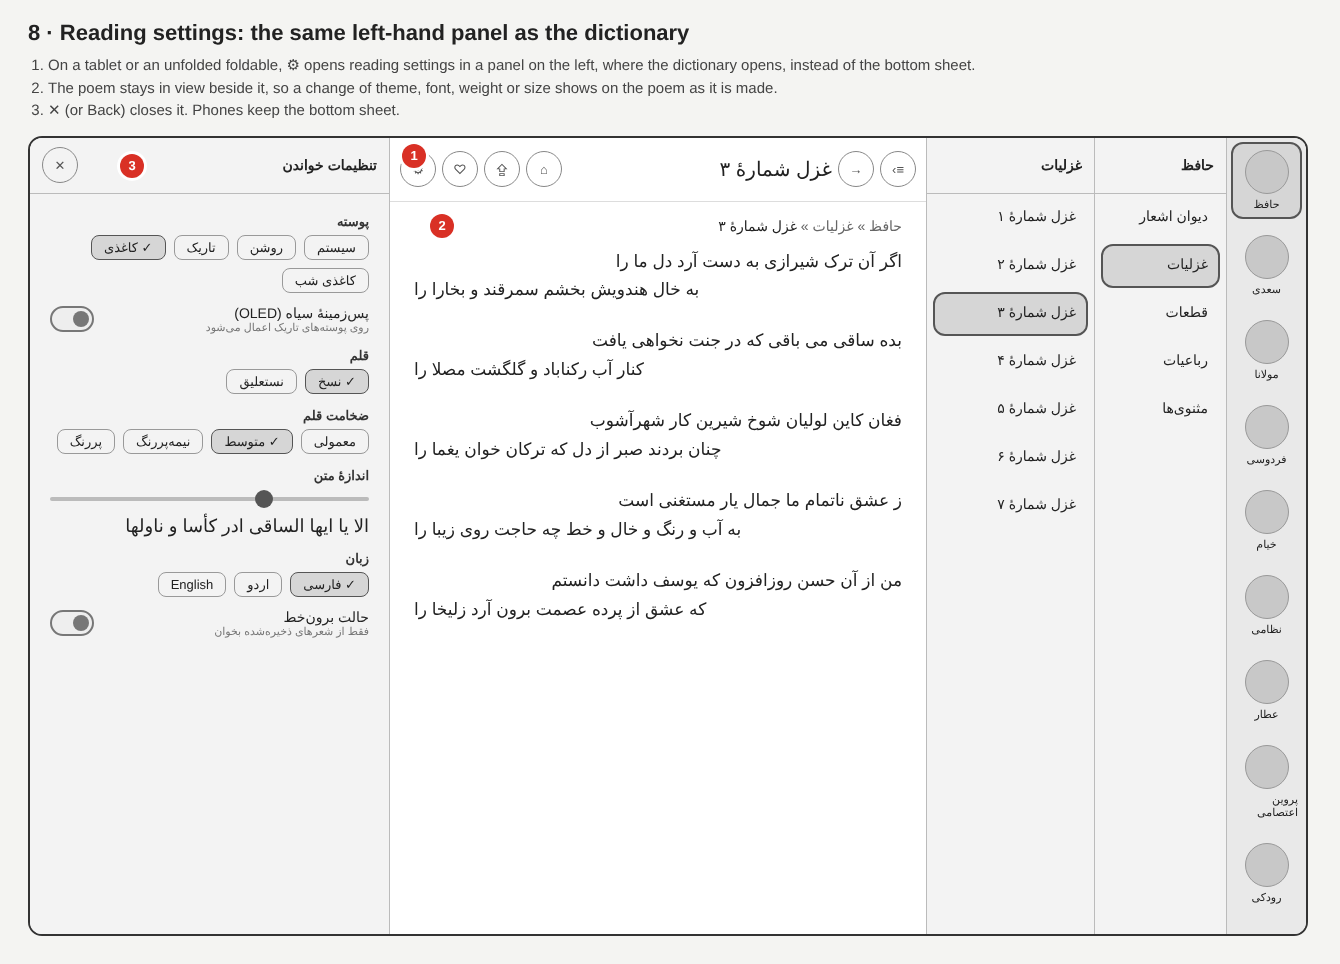
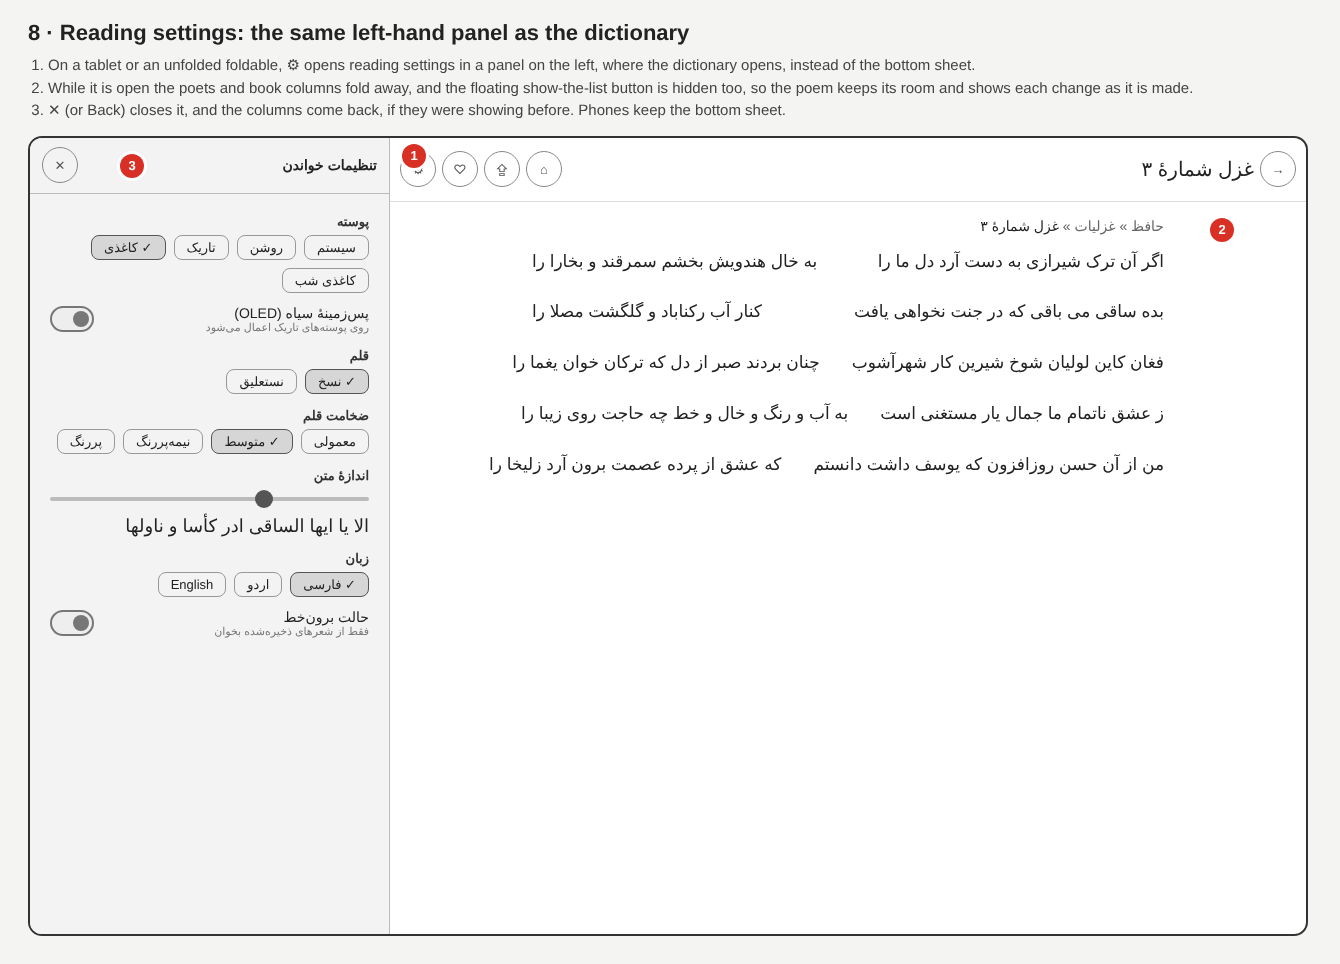
Fold the columns away while reading settings are open
On a large screen the settings panel opens on the left while the poets
and book columns sit on the right, which left the page squeezed between
them. The columns now step aside while the panel is open and come back
when it closes, but only if they were showing: this is a transient flag
(LocalSidePanelOpen), never the saved reader-view choice. The floating
show-the-list button stays hidden while the panel is open too.

Updates wireframe 8 and the ColumnBrowser notes.

Claude-Session: https://claude.ai/code/session_01RhmDdrN5hgWrgRcFLAMsV6

diff --git a/app/src/main/java/com/ganjoor/android/ui/ColumnBrowser.kt b/app/src/main/java/com/ganjoor/android/ui/ColumnBrowser.kt
@@ -61,6 +61,7 @@ import androidx.compose.material3.VerticalDivider
 import androidx.compose.runtime.Composable
 import androidx.compose.runtime.LaunchedEffect
 import androidx.compose.runtime.Stable
+import androidx.compose.runtime.compositionLocalOf
 import androidx.compose.runtime.getValue
 import androidx.compose.runtime.key
 import androidx.compose.runtime.mutableIntStateOf
@@ -157,6 +158,12 @@ private val CatEntry.url
     }
 
 /**
+ * True while a side panel (the reading settings) is open beside the page on a large screen.
+ * The columns step aside for it, so the page keeps its room, and come back when it closes.
+ */
+val LocalSidePanelOpen = compositionLocalOf { false }
+
+/**
  * The columns beside [content]. [expanded] (840dp and up) shows up to three list columns;
  * narrower, only the newest one, with a way back up in its header.
  *
@@ -174,7 +181,11 @@ fun ColumnBrowser(
     content: @Composable (toggle: @Composable () -> Unit) -> Unit,
 ) {
     val settings = LocalSettings.current
-    val hidden = settings.value.columnsHidden
+    // Hidden by the reader (reader view, remembered) or only while the settings panel is open.
+    // The second never touches the saved choice, so closing the panel puts back exactly what
+    // was there: the columns if they were showing, reader view if it was on.
+    val makingRoom = LocalSidePanelOpen.current
+    val hidden = settings.value.columnsHidden || makingRoom
     val columns = remember(url, isPoem) { columnUrls(url, isPoem) }
     // What is selected in each column: the next step of the path, down to the open poem.
     val path = if (isPoem) columns + url else columns
@@ -219,13 +230,14 @@ fun ColumnBrowser(
         Box(Modifier.weight(1f).fillMaxHeight()) {
             content {
                 // Hiding is in the top bar; bringing them back is the floating button below,
-                // which is there whenever they are hidden.
+                // which is there whenever the reader has hidden them.
                 if (!hidden) ColumnsToggle { settings.update { it.copy(columnsHidden = true) } }
             }
             // Reader view: the page has the whole screen, and one button, at the edge the
             // columns went to, brings them back as they were.
+            // Not while the settings panel is open: the columns would stay away for it anyway.
             ShowColumnsButton(
-                visible = hidden,
+                visible = hidden && !makingRoom,
                 onShow = { settings.update { it.copy(columnsHidden = false) } },
                 modifier = Modifier
                     .align(Alignment.BottomStart)

diff --git a/app/src/main/java/com/ganjoor/android/ui/GanjoorApp.kt b/app/src/main/java/com/ganjoor/android/ui/GanjoorApp.kt
@@ -112,7 +112,10 @@ fun GanjoorApp() {
         // On a large screen reading settings open in a panel on the left, where the dictionary
         // opens, so the page stays in view and shows each change as it is made.
         Row(Modifier.fillMaxSize()) {
+        // The columns fold away while the settings panel is open, so the page doesn't end up
+        // squeezed between them and the panel.
         Box(Modifier.weight(1f)) {
+        CompositionLocalProvider(LocalSidePanelOpen provides (wide && settingsOpen)) {
         NavHost(
             navController = nav,
             startDestination = PoetsRoute,
@@ -235,6 +238,7 @@ fun GanjoorApp() {
             composable<AboutRoute> {
                 AboutScreen(onUp = { nav.navigateUp() }, onHome = { nav.goHome() })
             }
+        }
         }
         }
         if (wide) {

diff --git a/design/components/ColumnBrowser/README.md b/design/components/ColumnBrowser/README.md
@@ -51,6 +51,7 @@ On large screens, tapping a word opens **WordPanel** on the left instead of the 
 On large screens the gear opens **ReadingSettingsPanel** on the left, where the dictionary opens, instead of the bottom sheet:
 - It has the same width and surface as the dictionary panel, with a "Reading settings" header and a ✕ button. The settings and their order are the same as in the sheet.
 - The page stays in view beside the panel, so a change of theme, font, weight or size shows on the poem as it's made.
+- While the panel is open, the poets and list columns fold away so the page keeps its room. When it closes they come back, but only if they were showing before: this never changes the saved reader-view choice, and the floating "show the list" button stays hidden while the panel is open.
 - ✕ or Back closes it. Phones keep the bottom sheet.
 
 ## Loading
